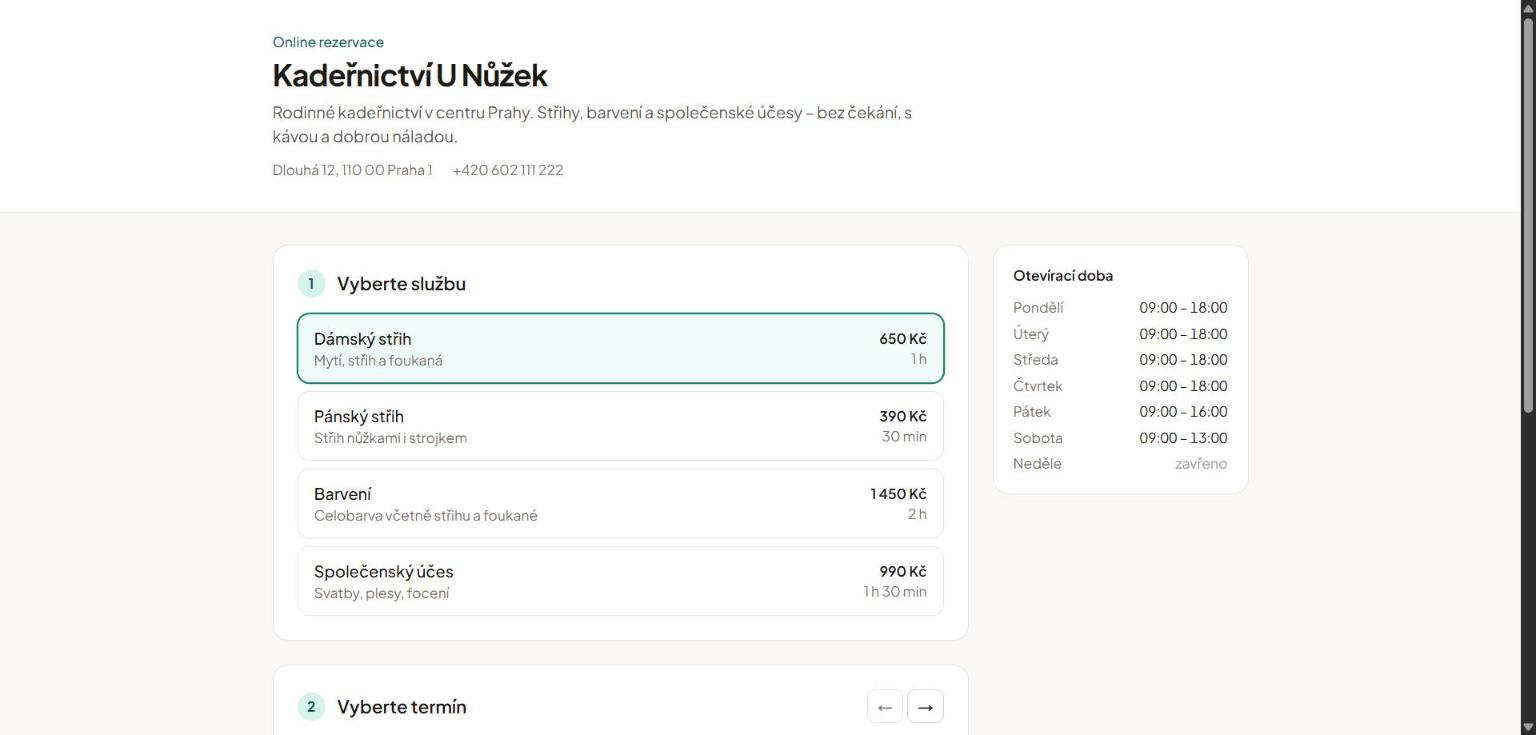
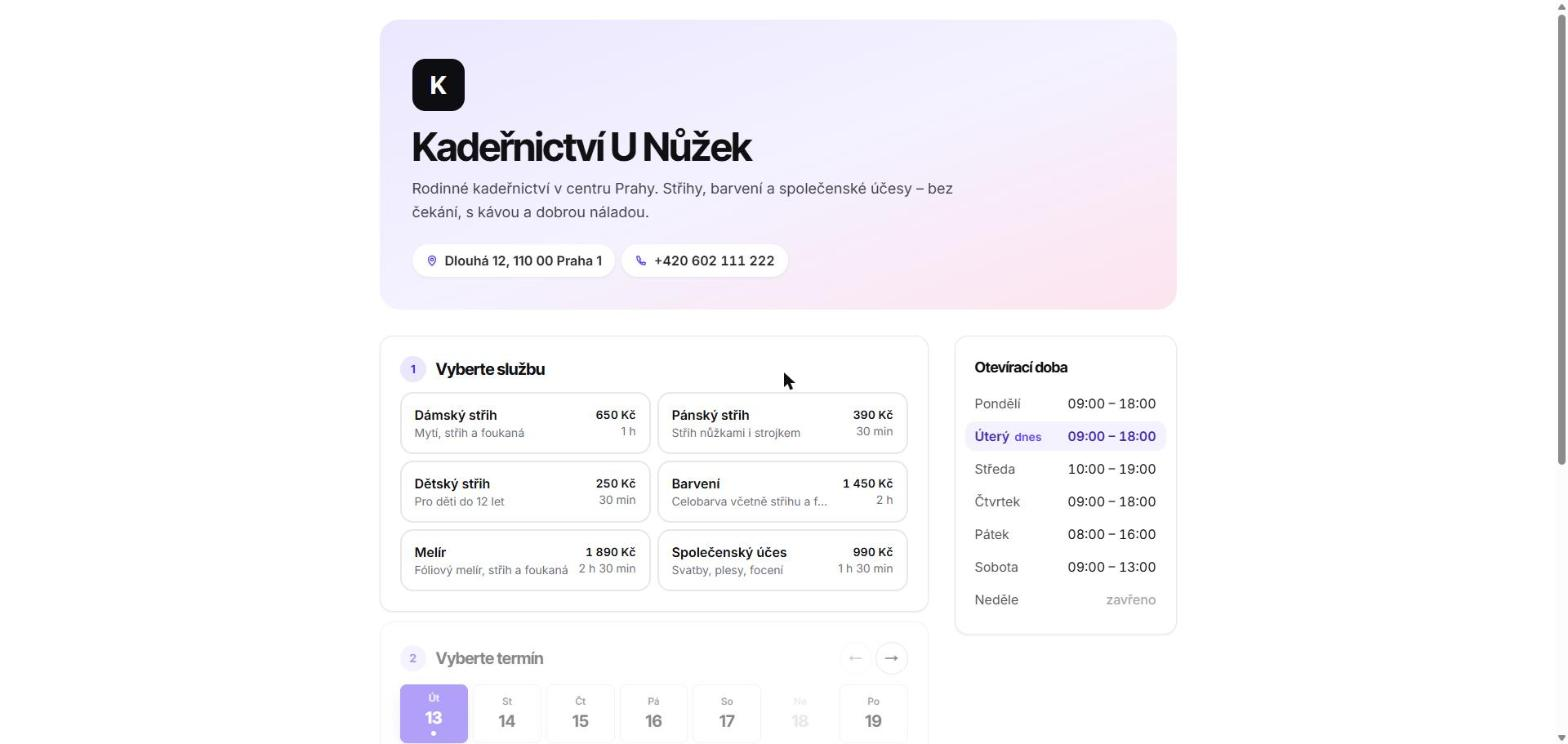
Production screenshots, fix mockup weekdays (12.–18. 10. 2026)

diff --git a/src/components/marketing/product-mockups.tsx b/src/components/marketing/product-mockups.tsx
@@ -19,7 +19,7 @@ type Appointment = { start: number; length: number; name: string; service: strin
 const WEEK: { day: string; date: string; today?: boolean; closed?: boolean; appointments: Appointment[] }[] = [
   {
     day: "Po",
-    date: "13. 10.",
+    date: "12. 10.",
     appointments: [
       { start: 0, length: 1, name: "Jana Vávrová", service: "Dámský střih", tint: "blush" },
       { start: 1.5, length: 2, name: "Blanka Šimková", service: "Barvení", tint: "brand" },
@@ -28,7 +28,7 @@ const WEEK: { day: string; date: string; today?: boolean; closed?: boolean; appo
   },
   {
     day: "Út",
-    date: "14. 10.",
+    date: "13. 10.",
     today: true,
     appointments: [
       { start: 0.5, length: 2.5, name: "Tereza Holubová", service: "Melír", tint: "brand" },
@@ -38,7 +38,7 @@ const WEEK: { day: string; date: string; today?: boolean; closed?: boolean; appo
   },
   {
     day: "St",
-    date: "15. 10.",
+    date: "14. 10.",
     appointments: [
       { start: 1, length: 1, name: "Eva Veselá", service: "Dámský střih", tint: "blush" },
       { start: 3, length: 1.5, name: "Lucie Dvořáková", service: "Společenský účes", tint: "butter" },
@@ -46,7 +46,7 @@ const WEEK: { day: string; date: string; today?: boolean; closed?: boolean; appo
   },
   {
     day: "Čt",
-    date: "16. 10.",
+    date: "15. 10.",
     appointments: [
       { start: 0, length: 0.5, name: "Ondřej Marek", service: "Pánský střih", tint: "sky" },
       { start: 1, length: 2, name: "Kateřina Procházková", service: "Barvení", tint: "brand" },
@@ -55,7 +55,7 @@ const WEEK: { day: string; date: string; today?: boolean; closed?: boolean; appo
   },
   {
     day: "Pá",
-    date: "17. 10.",
+    date: "16. 10.",
     appointments: [
       { start: 0.5, length: 1, name: "Veronika Malá", service: "Dámský střih", tint: "blush" },
       { start: 2, length: 0.5, name: "Lukáš Pospíšil", service: "Pánský střih", tint: "sky" },
@@ -64,10 +64,10 @@ const WEEK: { day: string; date: string; today?: boolean; closed?: boolean; appo
   },
   {
     day: "So",
-    date: "18. 10.",
+    date: "17. 10.",
     appointments: [{ start: 0, length: 1.5, name: "Barbora Pokorná", service: "Společenský účes", tint: "butter" }],
   },
-  { day: "Ne", date: "19. 10.", closed: true, appointments: [] },
+  { day: "Ne", date: "18. 10.", closed: true, appointments: [] },
 ];
 
 const HOURS = ["9:00", "10:00", "11:00", "12:00", "13:00", "14:00"];
@@ -83,7 +83,7 @@ export function CalendarMockup() {
         <span className="grid size-7 place-items-center rounded-full border border-edge text-xs">←</span>
         <span className="rounded-full border border-edge px-3 py-1 text-xs font-semibold">Dnes</span>
         <span className="grid size-7 place-items-center rounded-full border border-edge text-xs">→</span>
-        <span className="ml-2 font-display text-base font-bold tracking-tight">13. 10. – 19. 10.</span>
+        <span className="ml-2 font-display text-base font-bold tracking-tight">12. 10. – 18. 10.</span>
         <div className="ml-auto flex rounded-full border border-edge p-0.5 text-xs font-semibold">
           <span className="px-3 py-1 text-stone-500">Den</span>
           <span className="rounded-full bg-ink px-3 py-1 text-on-ink">Týden</span>

diff --git a/README.md b/README.md
@@ -29,7 +29,7 @@ curl -H "Authorization: Bearer <API klíč>" https://rezervo.bukac-adam.workers.
 
 ![Týdenní kalendář majitele](docs/screenshots/calendar-week.jpg)
 
-<sub>Screenshoty jsou ze skutečných komponent aplikace s ukázkovými daty.</sub>
+<sub>Screenshoty jsou z produkčního nasazení s ukázkovými daty.</sub>
 
 ## Funkce
 
